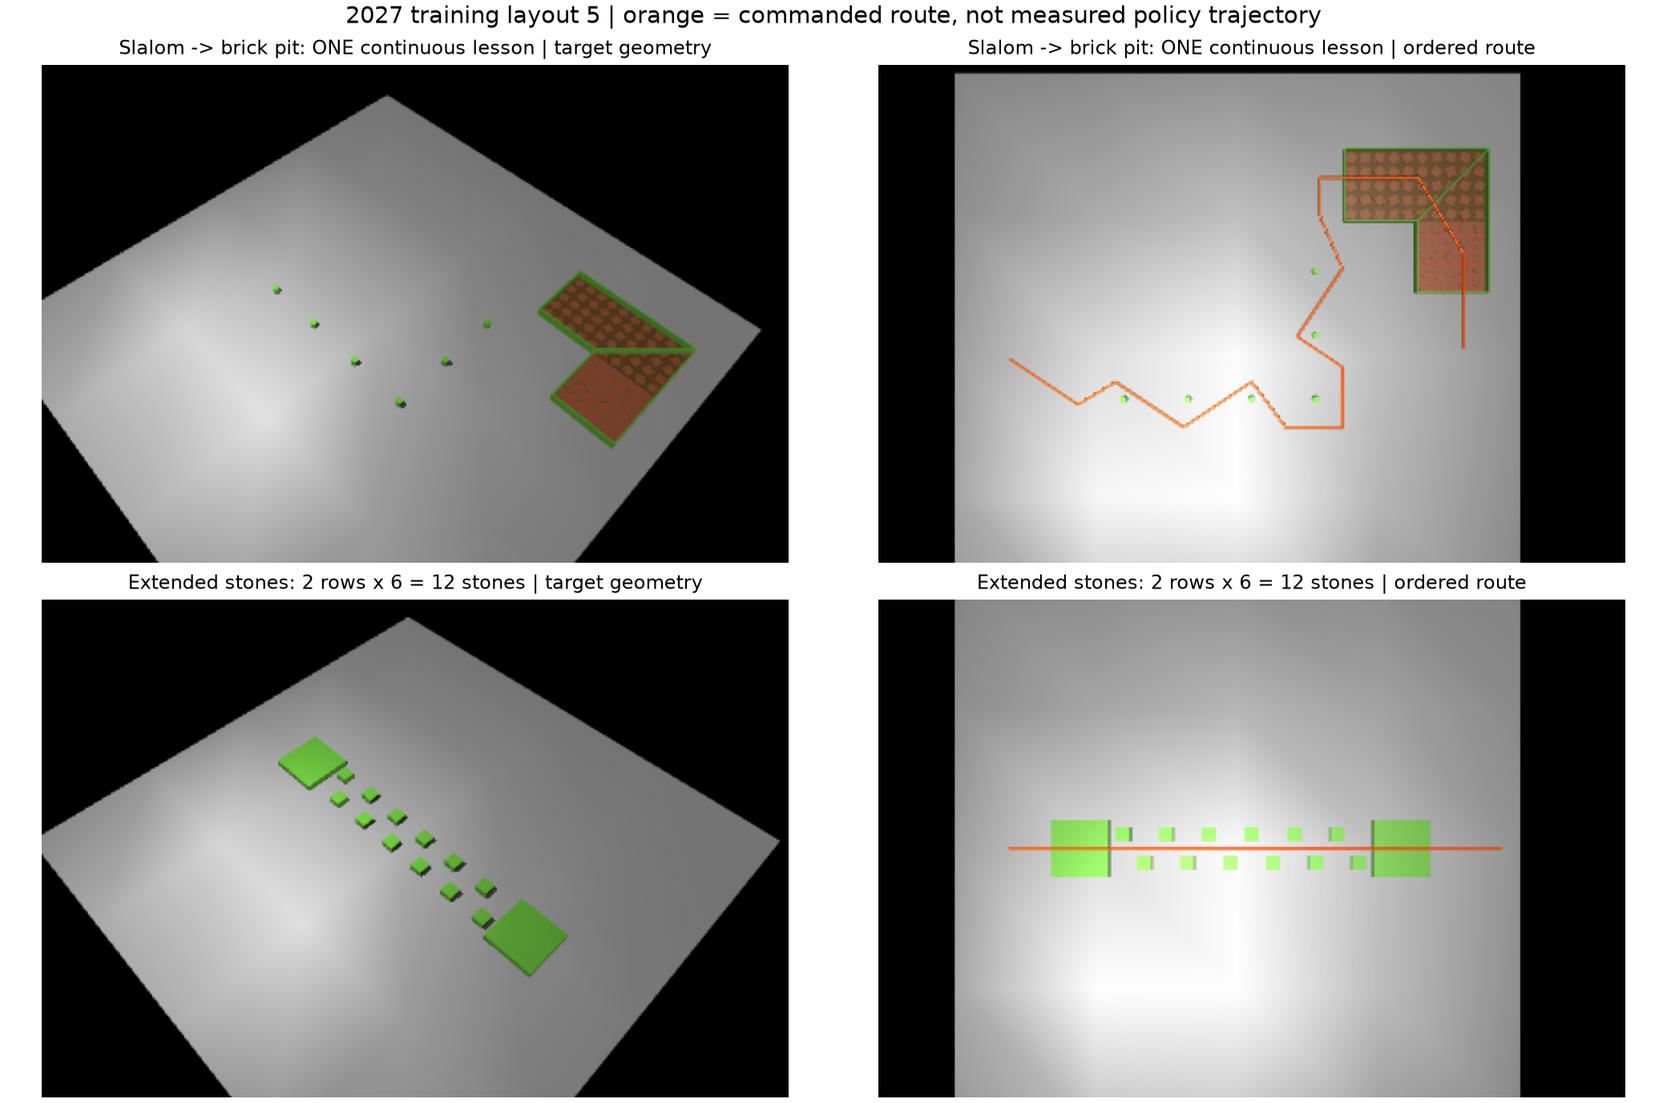
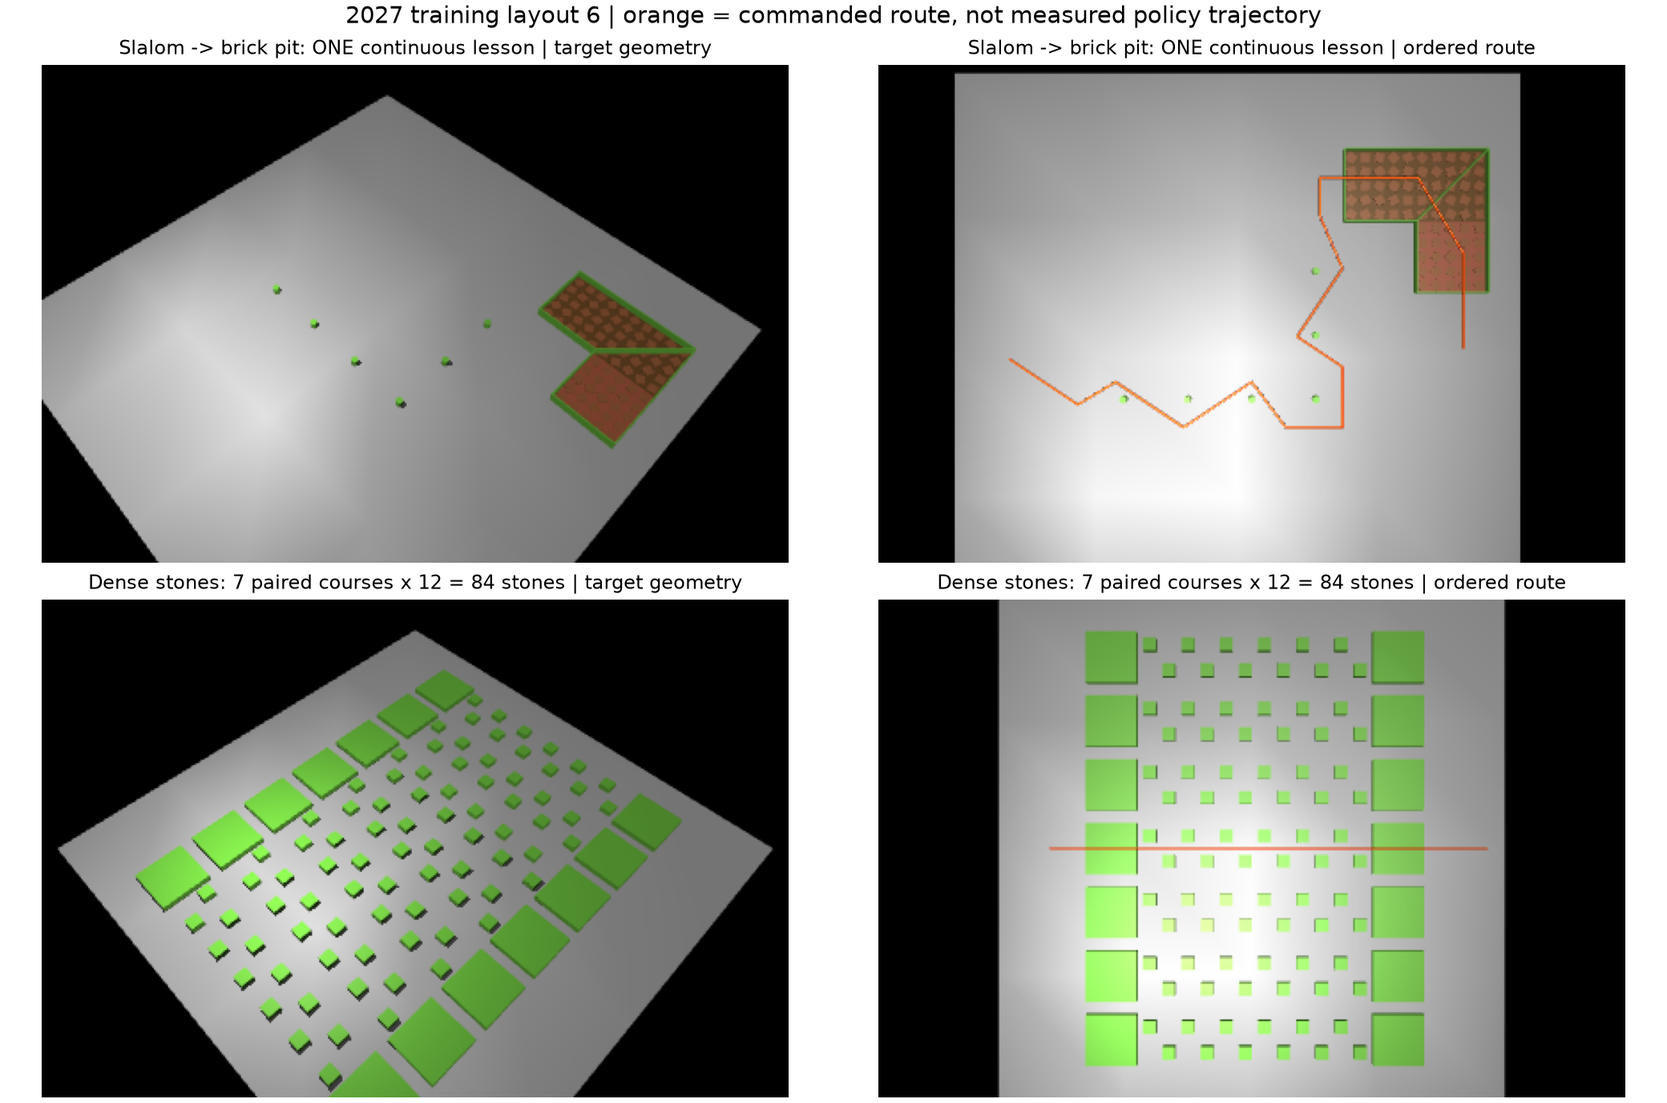
Fill stone and gap terrain fields and keep 400mm bridge edge gaps

Changed region(s): [[0.5625, 0.5, 0.9375, 1.0], [0.0, 0.5625, 0.4688, 1.0], [0.0625, 0.5, 0.4375, 0.5312]]

diff --git a/src/dashboard/web/app.js b/src/dashboard/web/app.js
@@ -256,7 +256,7 @@ function renderPassage(data){
   card.classList.toggle("hidden",!task()?.directed_passage);
   const speed=metricValue(data,"passage_speed_max");
   $("passage-speed").textContent=speed==null?"等待越障训练数据…":`当前前进速度 0.25–${speed.toFixed(3)} m/s；各类达标后扩速`;
-  const labels={start_flat:"平地",stepping_stones:"加长梅花桩",balance_beam:"单木桥",gap_steps:"沟壑台阶",brick_pit:"砖木坑",slalom_posts:"绕桩",high_wall:"高墙",clearance_frame:"限高笼",tire_array:"轮胎阵",rough:"粗糙地面",slalom_brick:"绕桩→砖木坑"};
+  const labels={start_flat:"平地",stepping_stones:"密集梅花桩",balance_beam:"单木桥（净距400mm）",gap_steps:"密集沟壑台阶",brick_pit:"砖木坑",slalom_posts:"绕桩",high_wall:"高墙",clearance_frame:"限高笼",tire_array:"轮胎阵",rough:"粗糙地面",slalom_brick:"绕桩→砖木坑"};
   const list=$("passage-results");list.replaceChildren();
   for(const [key,label] of Object.entries(labels)){
     const item=data?.passage?.[key];const div=document.createElement("div");

diff --git a/tests/test_2027_lessons.py b/tests/test_2027_lessons.py
@@ -46,31 +46,69 @@ class Lessons2027Tests(unittest.TestCase):
       self.assertAlmostEqual(1-hit,.02,places=6)
     model,_=self.compile("stepping_stones",1.)
     stones=self.matching(model,"_stone_")
-    self.assertEqual(len(stones),12)
+    self.assertEqual(len(stones),7*12)
     source=mujoco.MjModel.from_xml_path(str(Path(__file__).resolve().parents[1]/
       "src/assets/terrains/race_obstacle_2027.xml"))
     for geom in stones:
-      row,col=map(int,geom.name.split("_stone_")[-1].split("_"))
+      lane,row,col=map(int,geom.name.split("_stone_")[-1].split("_"))
       ref=source.geom(f"stone_{row}_{col%3}")
       np.testing.assert_allclose(geom.size,ref.size,atol=1e-8)
-      np.testing.assert_allclose(geom.pos[:2]-[1.4+1.8*(col//3),4.],ref.pos[:2],atol=1e-8)
+      np.testing.assert_allclose(geom.pos[:2]-[1.4+1.8*(col//3),4.+lane],ref.pos[:2],atol=1e-8)
+    self.assertEqual(len(self.matching(model,"stones_entry")),7)
+    self.assertEqual(len(self.matching(model,"stones_exit")),7)
     self.assertAlmostEqual(self.matching(model,"stones_exit")[0].pos[0],6.3)
     self.assertEqual(lesson_route("stepping_stones")[-1],(6.5,0.))
 
   def test_gap_has_solid_ramp_and_reference_platforms_gap_and_treads(self):
     model,data=self.compile("gap_steps",1.)
-    self.assertEqual(len(self.matching(model,"gap_ramp")),1)
+    self.assertEqual(len(self.matching(model,"gap_ramp")),9)
     platforms=self.matching(model,"gap_platform")
     for geom in platforms:
       np.testing.assert_allclose(geom.size,[.4,.4,.18],atol=1e-8)
-    self.assertAlmostEqual(platforms[1].pos[0]-platforms[0].pos[0]-.8,.36)
+    self.assertEqual(len(platforms),18)
+    for lane in range(-4,5):
+      pair=self.matching(model,f"gap_platform0_{lane}")+self.matching(model,f"gap_platform1_{lane}")
+      self.assertAlmostEqual(pair[1].pos[0]-pair[0].pos[0]-.8,.36)
     treads=self.matching(model,"gap_tread")
-    self.assertEqual(len(treads),2)
-    np.testing.assert_allclose([g.pos[2]+g.size[2] for g in treads],[.24,.12])
+    self.assertEqual(len(treads),18)
+    np.testing.assert_allclose([g.pos[2]+g.size[2] for g in treads],[.24,.12]*9)
     # Mid-slope support is continuous, not a disconnected thin floating slab.
     x=2.+.989092/2
     hit=mujoco.mj_ray(model,data,np.array([x,4.,1.]),np.array([0.,0.,-1.]),None,1,-1,None)
     self.assertAlmostEqual(1-hit,.18,places=5)
+
+  def test_dense_stones_gaps_and_beams_fit_without_duplicate_floors_or_overlaps(self):
+    for kind in ("stepping_stones","gap_steps","balance_beam"):
+      for difficulty in (0.,.5,1.):
+        with self.subTest(kind=kind,difficulty=difficulty):
+          model,data=self.compile(kind,difficulty)
+          self.assertEqual(len(self.matching(model,"lesson_floor")),1)
+          if kind=="stepping_stones":
+            pads=sorted(self.matching(model,"stones_entry"),key=lambda g:g.pos[1])
+            self.assertEqual(len(pads),7)
+            np.testing.assert_allclose(np.diff([g.pos[1] for g in pads]),1.)
+            self.assertAlmostEqual(pads[0].pos[1]-pads[0].size[1],.6)
+            self.assertAlmostEqual(pads[-1].pos[1]+pads[-1].size[1],7.4)
+          elif kind=="gap_steps":
+            platforms=sorted(self.matching(model,"gap_platform0_"),key=lambda g:g.pos[1])
+            self.assertEqual(len(platforms),9)
+            for a,b in zip(platforms,platforms[1:]):
+              self.assertAlmostEqual(a.pos[1]+a.size[1],b.pos[1]-b.size[1])
+            self.assertAlmostEqual(platforms[0].pos[1]-platforms[0].size[1],.4)
+            self.assertAlmostEqual(platforms[-1].pos[1]+platforms[-1].size[1],7.6)
+          else:
+            beams=sorted(self.matching(model,"beam_lane_"),key=lambda g:g.pos[1])
+            self.assertEqual(len(beams),9 if difficulty==1. else 7)
+            self.assertTrue(any(abs(g.pos[1]-4.)<1e-8 for g in beams))
+            for a,b in zip(beams,beams[1:]):
+              self.assertAlmostEqual(b.pos[1]-b.size[1]-(a.pos[1]+a.size[1]),.4)
+              midpoint=(a.pos[1]+a.size[1]+b.pos[1]-b.size[1])/2
+              # Actual collision query: the 400mm gap has no bridge support.
+              hit=mujoco.mj_ray(model,data,np.array([4.,midpoint,1.]),
+                np.array([0.,0.,-1.]),None,1,-1,None)
+              self.assertAlmostEqual(hit,1.,places=6)
+            self.assertGreaterEqual(beams[0].pos[1]-beams[0].size[1],.35-1e-6)
+            self.assertLessEqual(beams[-1].pos[1]+beams[-1].size[1],7.65+1e-6)
 
   def test_slalom_is_six_short_cylinders_in_an_l_and_pit_has_two_arms(self):
     model,_=self.compile("slalom_posts",1.)

diff --git a/src/tasks/velocity/config/lgdog1/passage_terrain_cfg.py b/src/tasks/velocity/config/lgdog1/passage_terrain_cfg.py
@@ -16,7 +16,15 @@ KINDS = ("start_flat", "stepping_stones", "balance_beam", "gap_steps", "brick_pi
 START_X = 1.0
 GOAL_X = 5.3
 LANE_HALF_WIDTH = 0.28
-LAYOUT_VERSION = 5  # v3 task, joined course and extended stones.
+LAYOUT_VERSION = 6  # v3 task, dense stones/gaps and 400mm beam edge gaps.
+BEAM_EDGE_GAP = 0.4
+
+
+def _lateral_lanes(size_y, width, gap):
+  """Centred repeats with at least 35cm clearance to either cell boundary."""
+  pitch = width + gap
+  count = int(np.floor((size_y/2-.35-width/2+1e-8)/pitch))
+  return [(i,size_y/2+i*pitch) for i in range(-count,count+1)]
 
 
 def lesson_route(kind, size=(8., 8.)):
@@ -89,15 +97,18 @@ class PassageTerrainCfg(SubTerrainCfg):
           0.,-.1,color=(.55,.55,.55,1.))
     if self.kind == "stepping_stones":
       height, width = .02+.08*d, .36-.16*d
-      box("stones_entry",1.8,cy,.4,.4,height)
-      box("stones_exit",6.3,cy,.4,.4,height)
-      for row in range(2):
-        # Repeat the reference three-stone unit twice along each row.
-        for i,x in enumerate(2.4+row*.3*d+np.arange(6)*.6):
-          box(f"stone_{row}_{i}",float(x),cy+(1 if row==0 else -1)*.2,
-              width/2,width/2,height)
+      for lane,y in _lateral_lanes(self.size[1],.8,.2):
+        box(f"stones_entry_{lane}",1.8,y,.4,.4,height)
+        box(f"stones_exit_{lane}",6.3,y,.4,.4,height)
+        for row in range(2):
+          # Repeat the reference unit along X, then repeat paired lanes along Y.
+          for i,x in enumerate(2.4+row*.3*d+np.arange(6)*.6):
+            box(f"stone_{lane}_{row}_{i}",float(x),y+(1 if row==0 else -1)*.2,
+                width/2,width/2,height)
     elif self.kind == "balance_beam":
-      box("balance_beam",4.,cy,1.5,(.7-.3*d)/2,.02+.08*d)
+      width = .7-.3*d
+      for lane,y in _lateral_lanes(self.size[1],width,BEAM_EDGE_GAP):
+        box(f"beam_lane_{lane}",4.,y,1.5,width/2,.02+.08*d)
     elif self.kind == "gap_steps":
       height, ramp_length, gap = .06+.30*d, .8+.189092*d, .04+.32*d
       # Solid wedge, two 80cm platforms and two descending 32cm treads.
@@ -106,14 +117,16 @@ class PassageTerrainCfg(SubTerrainCfg):
         x0,-half_width,0, x0,half_width,0,
         x0+ramp_length,-half_width,0, x0+ramp_length,half_width,0,
         x0+ramp_length,-half_width,height, x0+ramp_length,half_width,height])
-      ramp = body.add_geom(name=prefix+"gap_ramp",type=mujoco.mjtGeom.mjGEOM_MESH,
-        meshname=mesh.name,pos=(0,cy,0),rgba=green,contype=1,conaffinity=1)
-      geoms.append(TerrainGeometry(geom=ramp))
       platform0, platform1 = x0+ramp_length, x0+ramp_length+.8+gap
-      box("gap_platform0",platform0+.4,cy,.4,.4,height)
-      box("gap_platform1",platform1+.4,cy,.4,.4,height)
-      for i in range(2):
-        box(f"gap_tread_{i}",platform1+.8+.16+i*.32,cy,.16,.4,height*(2-i)/3)
+      for lane,y in _lateral_lanes(self.size[1],.8,0.):
+        # Touching side faces form a continuous-width obstacle; share one mesh.
+        ramp = body.add_geom(name=prefix+f"gap_ramp_{lane}",type=mujoco.mjtGeom.mjGEOM_MESH,
+          meshname=mesh.name,pos=(0,y,0),rgba=green,contype=1,conaffinity=1)
+        geoms.append(TerrainGeometry(geom=ramp))
+        box(f"gap_platform0_{lane}",platform0+.4,y,.4,.4,height)
+        box(f"gap_platform1_{lane}",platform1+.4,y,.4,.4,height)
+        for i in range(2):
+          box(f"gap_tread_{lane}_{i}",platform1+.8+.16+i*.32,y,.16,.4,height*(2-i)/3)
     elif self.kind == "brick_pit":
       # Same 2x2 L footprint and boundary/diagonal rails as the supplied model.
       ox, oy = 2.5, cy-1.

diff --git a/scripts/preview_2027_training.py b/scripts/preview_2027_training.py
@@ -39,6 +39,11 @@ def render(model,data,top=False,kind=None):
     camera.distance=8.5 if top else 9.
     camera.azimuth=90 if top else 135
     camera.elevation=-90 if top else -55
+  if kind in ("stepping_stones","gap_steps","balance_beam"):
+    camera.lookat[:]=(4.,4.,0.)
+    camera.distance=9.5
+    camera.azimuth=90 if top else 135
+    camera.elevation=-90 if top else -55
   with mujoco.Renderer(model,height=280,width=420,max_geom=max(10000,model.ngeom+20)) as renderer:
     renderer.update_scene(data,camera=camera)
     if top:
@@ -83,10 +88,39 @@ def main():
     for col,top in enumerate((False,True)):
       model,data=build_lesson(kind,1.,route=top)
       axes[row,col].imshow(render(model,data,top=top,kind=kind));axes[row,col].axis("off")
-      label="Slalom -> brick pit: ONE continuous lesson" if row==0 else "Extended stones: 2 rows x 6 = 12 stones"
+      label="Slalom -> brick pit: ONE continuous lesson" if row==0 else "Dense stones: 7 paired courses x 12 = 84 stones"
       axes[row,col].set_title(label+(" | ordered route" if top else " | target geometry"),fontsize=11)
-  fig.suptitle("2027 training layout 5 | orange = commanded route, not measured policy trajectory",fontsize=13)
+  fig.suptitle(f"2027 training layout {LAYOUT_VERSION} | orange = commanded route, not measured policy trajectory",fontsize=13)
   fig.savefig(args.output/"joined_and_stones.png",dpi=160);plt.close(fig)
+  fig,axes=plt.subplots(3,2,figsize=(13,12.5),layout="constrained")
+  labels={"stepping_stones":"Stones: 7 paired courses / 84 stones",
+          "gap_steps":"Gap course: 9 adjacent units / 7.2m wide",
+          "balance_beam":"Beams: 400mm EDGE gap / 9 lanes at target difficulty"}
+  for row,kind in enumerate(labels):
+    for col,top in enumerate((False,True)):
+      model,data=build_lesson(kind,1.,route=top)
+      axes[row,col].imshow(render(model,data,top=top,kind=kind));axes[row,col].axis("off")
+      axes[row,col].set_title(labels[kind]+(" | top" if top else " | perspective"),fontsize=11)
+  fig.suptitle(f"2027 dense training layout {LAYOUT_VERSION} | orange = central commanded route",fontsize=14)
+  fig.savefig(args.output/"dense_skills.png",dpi=150);plt.close(fig)
+  from matplotlib.patches import Rectangle
+  fig,axes=plt.subplots(1,3,figsize=(12,4.2),layout="constrained")
+  for ax,difficulty in zip(axes,(0.,.5,1.)):
+    model,_=build_lesson("balance_beam",difficulty)
+    beams=[model.geom(i) for i in range(model.ngeom) if "beam_lane_" in model.geom(i).name]
+    width=beams[0].size[1]*2;pitch=width+.4
+    for geom in beams:
+      if abs(geom.pos[1]-4.)>pitch+1e-6: continue
+      ax.add_patch(Rectangle(geom.pos[:2]-geom.size[:2],*(2*geom.size[:2]),
+        facecolor="#72ae44",edgecolor="#375b23"))
+    low=4.+width/2;high=4.+pitch-width/2
+    ax.annotate("",xy=(3.7,high),xytext=(3.7,low),arrowprops={"arrowstyle":"<->","color":"#b44711"})
+    ax.text(3.85,(low+high)/2,"400 mm",color="#b44711",va="center",fontsize=11)
+    ax.set(xlim=(2.3,5.7),ylim=(2.3,5.7),aspect="equal",xlabel="forward X (m)",ylabel="lateral Y (m)",
+      title=f"difficulty {difficulty:g}: width {width*1000:.0f}mm")
+    ax.grid(alpha=.15)
+  fig.suptitle("Bridge edges stay 400mm apart at EVERY difficulty (actual geometry)",fontsize=13)
+  fig.savefig(args.output/"beam_gap.png",dpi=150,bbox_inches="tight",pad_inches=.12);plt.close(fig)
   (args.output/"metrics.json").write_text(json.dumps(metrics,indent=2),encoding="utf-8")
   print(args.output.resolve())
 

diff --git a/src/dashboard/catalog.py b/src/dashboard/catalog.py
@@ -32,7 +32,7 @@ _TASK_LIST = (
     docs="doc/MGDP_PASSAGE.md", requires_pretrain=True, directed_passage=True,
     pretrain_command="python scripts/pretrain_mgdp.py --task LgDog1-Race-MGDP --num-envs 256 --steps 4000 --iterations 3000",
     pretrain_checkpoint="logs/mgdp/perception/mgdp_race_v3.pt",
-    description="2027 场地课程：12桩加长梅花桩、绕桩接砖木坑连续路线、坡台沟壑及密集限高轮胎；保留单项练习，沿路线到最终出口后计通过。",
+    description="2027 场地课程：84桩梅花桩、7.2m宽沟壑、桥间净距400mm的单木桥及绕桩接砖木坑连续路线；沿路线到最终出口后计通过。",
   ),
   TaskSpec(
     alias="him_flat", id="LgDog1-Flat-Blind-HIM-Standard",

diff --git a/doc/MGDP_PASSAGE.md b/doc/MGDP_PASSAGE.md
@@ -10,9 +10,10 @@
 每条连续4个框架，轮胎阵改为横向12排×前进方向6列，共72个轮胎。
 出生区、末端落脚区和出口仍保留平地。详见 [密集版预览与验证](analysis/terrain_2027_v3/dense_update.md)。
 
-随后增加“绕桩→砖木坑”连续课，并将梅花桩加长为双排12桩。
-当前布局修订号为 **5**，任务/实验目录仍为v3；布局3/4的完整课程状态不能直接恢复，需新开run。
-见 [拼接路线与加长梅花桩](analysis/terrain_2027_v3/joined_update.md)。
+随后增加 [绕桩→砖木坑连续课](analysis/terrain_2027_v3/joined_update.md)。
+当前布局修订号为 **6**：梅花桩横向7组共84桩，沟壑横向9单元铺成7.2m宽，
+单木桥横向重复，相邻桥的边缘净距始终400mm，详见 [密集梅花桩、沟壑和单木桥](analysis/terrain_2027_v3/dense_skills_update.md)。
+任务/实验目录仍为v3；布局3/4/5的完整课程状态不能直接恢复，需新开run。
 
 ## 目标与地形
 
@@ -24,8 +25,9 @@
   未完成前面路点，直接到最终出口不算成功。所有课的起点和终点均在平地上。
 - 保留原10类单项课，增加连续课，共11类各占1/11。默认10行×22列，每类两列，开局只用第0行。
 - 难度从低桩、宽梁、小平台间隙、低墙、高净空、低轮胎递进。
-  梅花桩为双排12桩（每排6桩），沿用参考单元的0.6m间距，平台与桩区总长5.3m；
-  沟壑包含实心斜坡、双平台和两级下台阶；绕桩是 L 形六根矮圆柱；
+  梅花桩每组双排12桩，横向7组共84桩，沿用参考单元的0.6m纵向间距，平台与桩区总长5.3m；
+  沟壑包含实心斜坡、双平台和两级下台阶，横向9单元相接覆盖7.2m；单木桥宽0.7→0.4m，
+  按桥宽自动排7→9条，相邻边缘固定留0.4m空隙。绕桩是 L 形六根矮圆柱；
   砖木坑包含 L 形槽体、护栏与斜分隔栏。移除旧课人为增加的 0.45 m 深坑。
 - 到达最后路点且没有物理失败，获得一次性5分通过奖励并结束回合。每回合最多 **75秒**，
   指令重采样间隔76秒，容纳约12.9m的连续路线。此为训练回合上限，MuJoCo交互窗口仍运行至关闭。
@@ -65,7 +67,7 @@
 - 定向任务独立管理速度与地形，不叠加 LP/uniform 或正负速度包络；面板会禁用相应覆盖项，直接 CLI 冲突会报错。
 
 课程状态保存于 checkpoint 的 `infos.mgdp_passage_curriculum`，包含计数、速度、连续达标次数、地形行列和参数指纹。
-指纹包含布局版本、路线、回合时长和命令配置。**v2或旧布局v3的完整训练状态不兼容当前布局5，需开始新的训练run**；
+指纹包含布局版本、路线、回合时长和命令配置。**v2或旧布局v3的完整训练状态不兼容当前布局6，需开始新的训练run**；
 不要复用旧的地形掌握度和扩速统计。旧导出策略仍可与原感知 sidecar 在 sim2sim 中回放。
 
 ## 开始新训练

diff --git a/doc/analysis/terrain_2027_v3/dense_skills_update.md b/doc/analysis/terrain_2027_v3/dense_skills_update.md
@@ -1,0 +1,52 @@
+# 密集梅花桩、沟壑与400mm桥间净距
+
+日期：2026-11-05。任务 `LgDog1-Race-MGDP` / `race_mgdp`，地图布局修订号6。
+
+![左侧透视、右侧俯视；橙线为中间训练路线](dense_skills.png)
+
+## 排布
+
+| 项目 | 每块8×8m训练地形的布局 |
+|---|---|
+| 梅花桩 | 横向7组，每组双排各6桩，共84桩；组中心y=1/2/3/4/5/6/7m |
+| 沟壑 | 横向9个0.8m宽单元侧面相接，连续覆盖y=0.4–7.6m，共7.2m宽 |
+| 单木桥 | 桥宽由0.7m递减到0.4m，随可用空间排7至9条；每条长3m，边缘净距固定0.4m |
+
+梅花桩保留纵向0.6m间距、双排0.4m间距和目标0.3m错位，目标桩长宽0.2m、高0.1m；
+每组保留自己的入口/出口平台，障碍区总长5.3m。横向重复组之间不叠桩或平台。
+沟壑每个单元仍是实心坡、双平台和两级下台阶，平台间隙0.04→0.36m、高度0.06→0.36m。
+9个斜坡共用一个网格资源。各类地形共用单块地板，复制体均参与碰撞与深度射线。
+
+## 单木桥净距
+
+![读取实际桥体几何绘制的三档净距](beam_gap.png)
+
+400mm按相邻桥**边缘到边缘**计算。中心间距为 `当前桥宽 + 0.4m`，
+所以桥宽700/550/400mm时，中心间距分别为1100/950/800mm。
+各课程行的桥宽变化后仍保持400mm空隙，使相邻桥面分开。间隙下方为场地平地。
+中间桥保持y=4m，机器人沿中间桥行进，不把路线放到桥缝上。
+
+## 路线和训练
+
+11类课程、10行×22列、75秒回合、通过率门控和reward保持现有配置。
+梅花桩出口仍为 `(7.5,4)`，沟壑/桥出口仍为 `(6.3,4)`；保留入口和障碍后的落脚区。
+绕桩接砖木坑的连续路线以及高墙、匍匐、轮胎密集图保持原有几何。
+
+布局版本进入完整课程状态指纹；布局5及更早状态不能当作当前图的掌握度继续恢复。
+实验名仍为 `lgdog1_velocity_race_mgdp_v3`。新图请重新采集感知数据并新开策略训练。
+橙线为训练命令路线，密集铺排不代表策略已学会通过。
+
+## 验证
+
+回归检查84桩与参考单元尺寸/相位、9沟壑单元连续相接、桥缝三档均为400mm且实际射线落到平地、
+每块只有一层地板，以及全部路线起终点可落脚。实际CPU检查与日志位于 `.artifacts/dense-skills/`。
+
+| 检查 | 结果 |
+|---|---|
+| 全套回归 | 258项，0失败、1跳过，`all-tests.log` |
+| 地形、路线和比赛图相关回归 | 30项通过，`target-tests.log` |
+| 实际CPU环境 | 11环境、2行×11列、3828个几何体，覆盖11类课程 |
+| 实际出口判定/复位/计数 | 手工置于最终路点后执行仿真步，11类全部通过；布局5完整课程状态被拒绝，`env.log` |
+| 静态检查 | `node --check src/dashboard/web/app.js`及`git diff --check`通过 |
+
+出口检查用于验证终止链路，未测得策略自行走完整张图的成绩；本轮未做GPU长训。

diff --git a/doc/analysis/terrain_2027_v3/report.md b/doc/analysis/terrain_2027_v3/report.md
@@ -2,8 +2,9 @@
 
 日期：2026-11-04。目标任务 `race_mgdp` / `LgDog1-Race-MGDP`。
 
-2026-11-05：当前布局修订号5，增加绕桩接砖木坑连续课、梅花桩延长为12桩，
-见 [连续路线更新](joined_update.md)。高墙、匍匐框架和轮胎阵保留 [密集版排布](dense_update.md)。
+2026-11-05：当前布局修订号6，梅花桩84桩、沟壑铺宽7.2m、桥间净距400mm，
+见 [密集技能图更新](dense_skills_update.md)。保留 [绕桩接砖木坑连续课](joined_update.md)，
+高墙、匍匐框架和轮胎阵保留 [密集版排布](dense_update.md)。
 本文下方是v3初版的来源和验证记录；`lessons.png` 已更新为当前布局预览。
 
 ## 场地图依据

diff --git a/doc/analysis/terrain_2027_v3/dense_update.md b/doc/analysis/terrain_2027_v3/dense_update.md
@@ -1,6 +1,7 @@
 # 高墙、匍匐与轮胎阵：密集训练布局
 
-当前布局已更新到5，新增连续课及加长梅花桩，见 [拼接更新](joined_update.md)；本页三类密集障碍的几何保持不变。
+当前布局已更新到6，新增 [密集梅花桩/沟壑及400mm桥间净距](dense_skills_update.md)，
+并保留 [连续路线](joined_update.md)；本页三类密集障碍的几何保持不变。
 
 日期：2026-11-05。用户要求这三类障碍排满有效训练区。任务仍为
 `LgDog1-Race-MGDP` / `race_mgdp`，地图布局修订号从3改为4。

diff --git a/doc/analysis/terrain_2027_v3/joined_update.md b/doc/analysis/terrain_2027_v3/joined_update.md
@@ -2,6 +2,9 @@
 
 日期：2026-11-05。`LgDog1-Race-MGDP` / `race_mgdp`，布局修订号5。
 
+本页记录布局5的拼接改动。当前布局6保留此连续路线，将12桩单元横向重复为7组共84桩，
+见 [密集技能图更新](dense_skills_update.md)；下方预览随当前代码更新。
+
 ![上排连续路线，下排加长梅花桩；右侧橙线为指令路线](joined_and_stones.png)
 
 ## 连续路线
